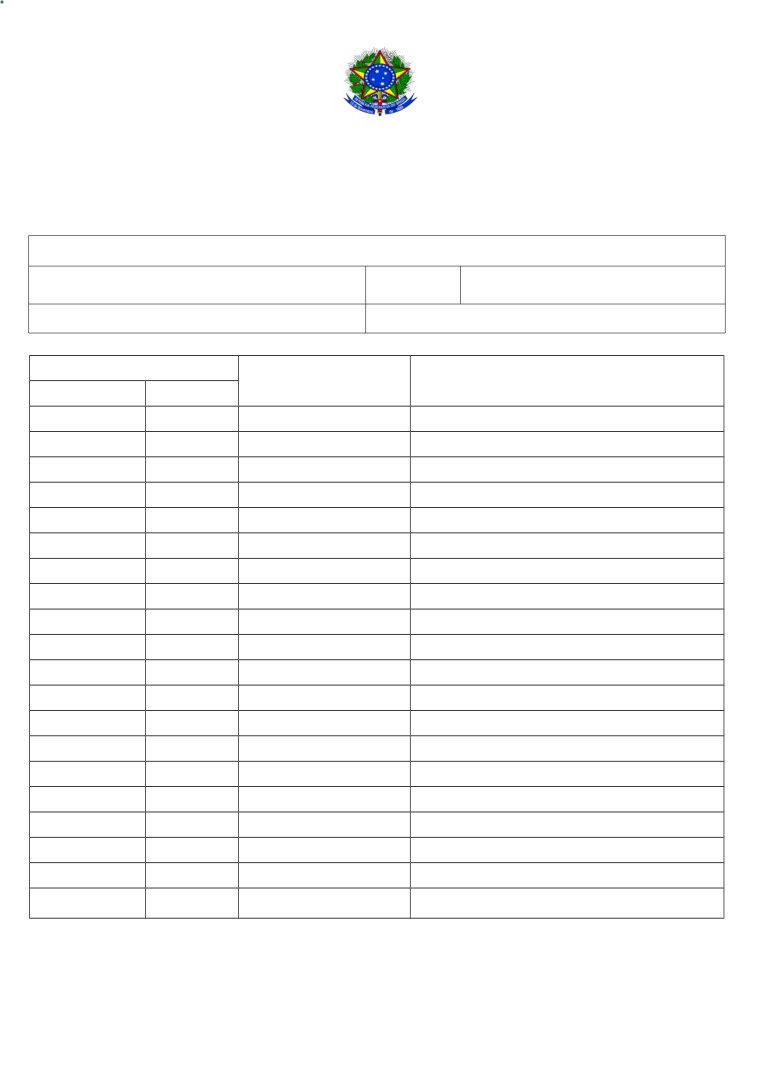
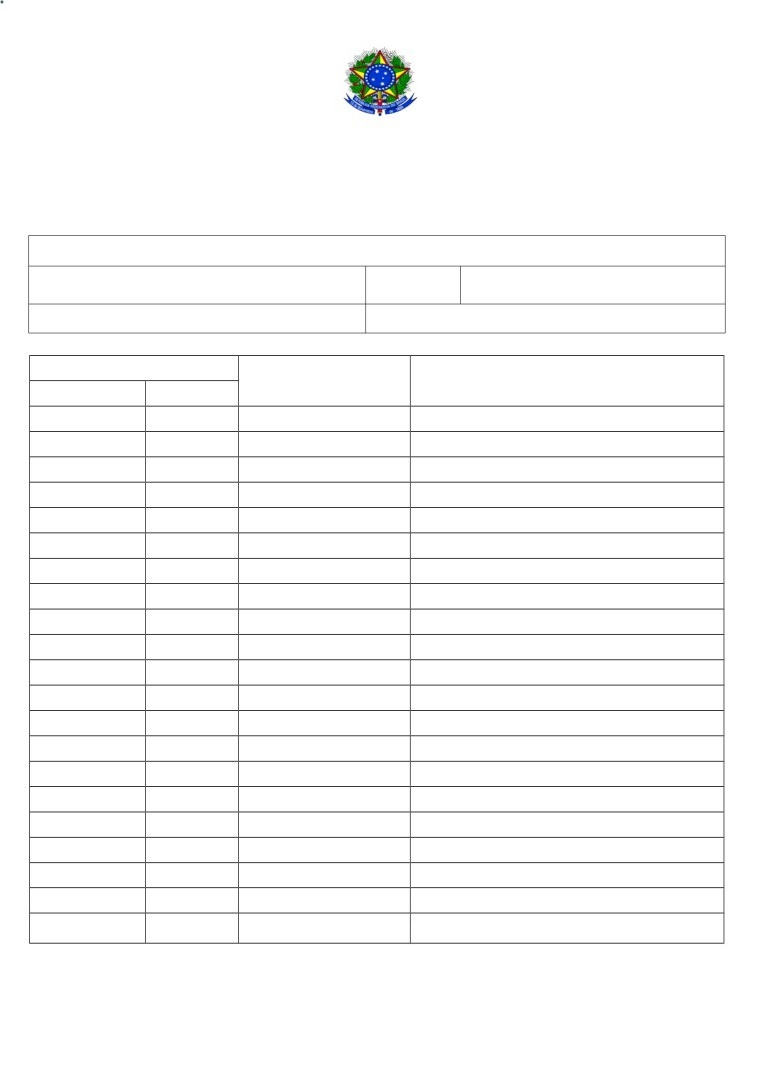
Update: doc frequencia de estagio com 20 linhas

Changed region(s): [[0.0604, 0.8281, 0.9369, 0.8587]]

diff --git a/PDFs/frequenciaEstagio.php b/PDFs/frequenciaEstagio.php
@@ -210,11 +210,11 @@ $string = '<html>
         <div style="position:absolute;left:393.90px;top:291.40px" class="cls_008"><span class="cls_008">Atividade desenvolvida</span></div>
         <div style="position:absolute;left:52.80px;top:301.50px" class="cls_008"><span class="cls_008">Data</span></div>
         <div style="position:absolute;left:119.50px;top:301.50px" class="cls_008"><span class="cls_008">Carga horária</span></div>
-        <div style="position:absolute;left:43.50px;top:695.80px" class="cls_008"><span class="cls_008">TOTAL DE</span></div>
-        <div style="position:absolute;left:50.70px;top:706.00px" class="cls_008"><span class="cls_008">HORAS</span></div>
-        <div style="position:absolute;left:226.80px;top:743.40px" class="cls_008"><span class="cls_008">Data:</span><span class="cls_007"> ______/______/__________</span></div>
-        <div style="position:absolute;left:150.30px;top:774.80px" class="cls_007"><span class="cls_007">___________________________________________________________</span></div>
-        <div style="position:absolute;left:204.00px;top:786.30px" class="cls_008"><span class="cls_008">Assinatura do(a) Supervisor(a) Responsável</span></div>
+        <div style="position:absolute;left:43.50px;top:715.80px" class="cls_008"><span class="cls_008">TOTAL DE</span></div>
+        <div style="position:absolute;left:50.70px;top:726.00px" class="cls_008"><span class="cls_008">HORAS</span></div>
+        <div style="position:absolute;left:226.80px;top:753.40px" class="cls_008"><span class="cls_008">Data:</span><span class="cls_007"> ______/______/__________</span></div>
+        <div style="position:absolute;left:150.30px;top:784.80px" class="cls_007"><span class="cls_007">___________________________________________________________</span></div>
+        <div style="position:absolute;left:204.00px;top:796.30px" class="cls_008"><span class="cls_008">Assinatura do(a) Supervisor(a) Responsável</span></div>
     </div>
 
 </body>
